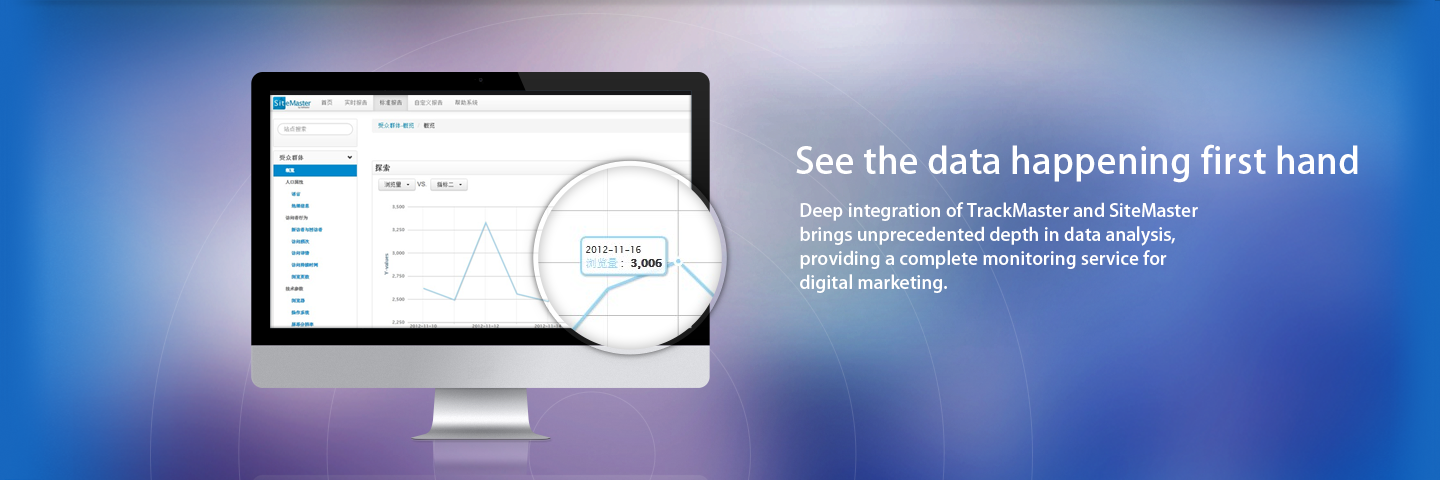
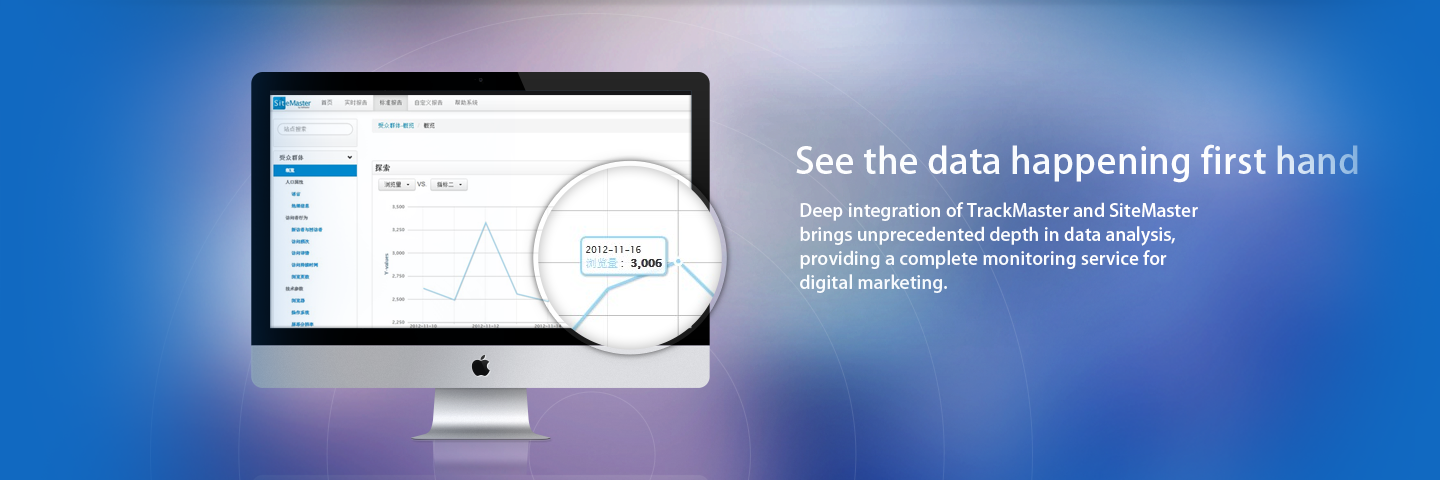
changed

diff --git a/zh-cn/features.html b/zh-cn/features.html
@@ -44,7 +44,7 @@
 			  <li><a href="partners.html">合作伙伴</a></li>
 			  <li><a href="learn.html">帮助中心</a></li>
               <li><a href="contact.html">联系我们</a></li>
-			  <li><a href="http://open.admaster.com.cn/user/login">登入</a></li>
+			  <li><a href=" http://www.sitemaster.com.cn/site.htm">登入</a></li>
             </ul>
 		  </div>
         </div>
@@ -71,7 +71,7 @@
 			<h2 class="sub">分析工具</h2>
 			<p>针对客户站点的内容特点，开发出多个业界独特的分析功能模块，提供全新的视角分析和独到的洞察方案。</p>
 			<li>实时与回溯报告</li>
-			<li>点击&注意力热图</li>
+			<li>点击，注意力热图</li>
 			<li>广告流分析</li>
 		  </div>
 		  <div class="span4">
@@ -80,9 +80,9 @@
 			</a>
 			<h2 class="sub">内容分析</h2>
 			<p>可快速定位站点的最热点内容，查看访客的网站行为，利用进入退出页分析，加载速度等数据提供优化方案。</p>
-			<li>站点&页面分析</li>
-			<li>事件跟踪&目标</li>
-			<li>着陆率&跳出率</li>
+			<li>站点，页面分析</li>
+			<li>事件跟踪，目标</li>
+			<li>着陆率，跳出率</li>
 		  </div>
 		  <div class="span4">
 			<a class="thumbnail" style="background:#ffffff">
@@ -92,7 +92,7 @@
 			<p>通过获取分析访问者使用的移动设备，技术参数等信息，为客户提供最好的跨设备及跨技术平台的投放方案。</p>
 			<li>设备：品牌，类型，分辨率</li>
 			<li>参数：屏幕信息，flash版本</li>
-			<li>细分：操作系统&浏览器</li> 
+			<li>细分：操作系统, 浏览器</li> 
 			<br>
 		</div>
 		</div>
@@ -124,9 +124,9 @@
 			</a>
 			<h2 class="sub">访问者分析</h2>
 			<p>细分到每一个访问者，每一次访问的详情，所有能想到的访问数据都可以在这里找到答案。</p>
-			<li>语言&地理位置</li>
-			<li>新访者&回访者</li>
-			<li>浏览页数&持续时间</li>
+			<li>语言，地理位置</li>
+			<li>新访者，回访者</li>
+			<li>浏览页数，持续时间</li>
 		  </div>
 		</div>
 	    <div class="row">
@@ -179,7 +179,9 @@
 	          </fieldset>
             </div>
       <div class="modal-footer">
-	    <a href="login.html" class="btn btn-warning pull-left">已有账号</a>
+	    <!--
+		<a href="login.html" class="btn btn-warning pull-left">已有账号</a>
+		-->
 		<a href="index.html" class="btn btn-primary">注册</a>
       </div>
     </div>

diff --git a/en/features.html b/en/features.html
@@ -44,7 +44,7 @@
 			  <li><a href="partners.html">Partners</a></li>
 			  <li><a href="learn.html">Learn</a></li>
               <li><a href="contact.html">Contact</a></li>
-			  <li><a href="http://open.admaster.com.cn/user/login">Login</a></li>
+			  <li><a href="http://www.sitemaster.com.cn/site.htm">Login</a></li>
             </ul>
 		  </div>
         </div>
@@ -71,7 +71,7 @@
 			<h2 class="sub">Analysis Tools</h2>
 			<p>Easily browse through your data with easy to use interface. Export data onto excel to share or further analysis. Discover important data for better conversion.</p>
 			<li>Real time reporting</li>
-			<li>Heat map Visualization</li>
+			<li>Heat map visualization</li>
 			<li>Multi channel funnel</li>
 		  </div>
 		  <div class="span4">
@@ -111,7 +111,7 @@
 			  <img alt="image" src="img/advertising.png">
 			</a>
 			<h2 class="sub">Advertising Analytics</h2>
-			<p>Integrate with TrackMaster to understand which advertising campaigns are working. Use real time reporting to look across all digital channels and optimize for conversions.</p>
+			<p>Integrate with TrackMaster to understand which advertising campaigns are working. Use real time reporting to look across all digital channels.</p>
 		  <li>Cross channel reference</li>
 		  <li>Multi channel funnel</li>
 		  <li>Advance tracking via cookies</li>

diff --git a/zh-cn/learn.html b/zh-cn/learn.html
@@ -44,7 +44,7 @@
 			  <li><a href="partners.html">合作伙伴</a></li>
               <li class="active"><a href="learn.html">帮助中心</a></li>
               <li><a href="contact.html">联系我们</a></li>
-			  <li><a href="http://open.admaster.com.cn/user/login">登入</a></li>
+			  <li><a href=" http://www.sitemaster.com.cn/site.htm">登入</a></li>
             </ul>
 		  </div>
         </div>
@@ -69,7 +69,7 @@
 		      <i class="icon-check"></i>
 		    </div>
 			<h2><a href="http://help.admaster.com.cn/sitemaster/">入门教程</a></h2>
-			<p>基本术语介绍和初级教程，帮助用户快速掌握产品使用。 </p>	
+			<p>系统基本术语介绍和初级入门教程，帮助用户快速掌握产品使用。</p>	
 		  </div>
 		  <div class="span4 bouncy">
 		    <div class="icon_wrapper">
@@ -83,7 +83,7 @@
 		      <i class="icon-comments"></i>
 		    </div>
 			<h2><a href="http://help.admaster.com.cn/sitemaster/">帮助中心</a></h2>
-			<p>深入学习我们的分析工具，使用上的所有问题都可在这儿得到答案。</p>	
+			<p>深入研究我们的分析工具，所有使用上的问题都可在此得到答案。</p>	
 		  </div>		  
 		</div>
 <br>

diff --git a/zh-cn/contact.html b/zh-cn/contact.html
@@ -42,9 +42,9 @@
               <li><a href="index.html">产品首页</a></li>
 			  <li><a href="features.html">功能特点</a></li>
 			  <li><a href="partners.html">合作伙伴</a></li>
-			  <li><a href="learN.html">帮助中心</a></li>
+			  <li><a href="learn.html">帮助中心</a></li>
               <li class="active"><a href="contact.html">联系我们</a></li>
-			  <li><a href="http://open.admaster.com.cn/user/login">登入</a></li>
+			  <li><a href=" http://www.sitemaster.com.cn/site.htm">登入</a></li>
             </ul>
 		  </div>
         </div>
@@ -116,13 +116,13 @@
 		        静安区 昌平路68号 
 				<br>静安现代产业大厦 701室
 				<br>
-				 <h4><i class="icon-phone"></i>联系方式</h4> 
+				 <h4><i class="icon-phone"></i> 联系方式</h4> 
 		        <address>
 				( 10:00-19:00 ) 
 				 <br> 
-		        电话: 021- 32160977 
+		        电话: 021-3216 0977 
 				<br>
-				传真: 021- 62319743
+				传真: 021-6231 9743
 				</address>
 				</div>
 				<div class="span1">

diff --git a/zh-cn/index.html b/zh-cn/index.html
@@ -44,7 +44,7 @@
               <li><a href="partners.html">合作伙伴</a></li>
 			  <li><a href="learn.html">帮助中心</a></li>
 			  <li><a href="contact.html">联系我们</a></li>
-			  <li><a href="http://open.admaster.com.cn/user/login">登入</a></li>
+			  <li><a href=" http://www.sitemaster.com.cn/site.htm">登入</a></li>
             </ul>
 		  </div>
         </div>
@@ -63,8 +63,8 @@
             </div>
 	</div>
 -->
-<div id="container" style="background:#1169c1" align="center">	
-	<div id="myCarousel" class="carousel slide">
+<div id="container" style="background-image:url('img/color.gif');background-repeat:repeat-x;" align="center">	
+	<div id="myCarousel" class="carousel slide" >
 	<!-- Carousel items -->
 	<div class="carousel-inner">
 		<div class="active item"><img src="img/home1.png"></div>

diff --git a/en/index.html b/en/index.html
@@ -44,7 +44,7 @@
               <li><a href="partners.html">Partners</a></li>
 			  <li><a href="learn.html">Learn</a></li>
 			  <li><a href="contact.html">Contact</a></li>
-			  <li><a href="http://open.admaster.com.cn/user/login">Login</a></li>
+			  <li><a href="http://www.sitemaster.com.cn/site.htm">Login</a></li>
             </ul>
 		  </div>
         </div>
@@ -68,7 +68,7 @@
 	</div>
 -->	
 	
-<div id="container" style="background:#1169c1" align="center">	
+<div id="container" style="background-image:url('img/color.gif');background-repeat:repeat-x;" align="center">	
 	<div id="myCarousel" class="carousel slide">
 	<!-- Carousel items -->
 	<div class="carousel-inner">

diff --git a/zh-cn/login.html b/zh-cn/login.html
@@ -44,7 +44,7 @@
 			  <li><a href="partners.html">功能特点</a></li>
               <li><a href="learn.html">帮助中心</a></li>
               <li><a href="contact.html">联系我们</a></li>
-			  <li class="active"><a href="http://open.admaster.com.cn/user/login">登入</a></li>
+			  <li class="active"><a href=" http://www.sitemaster.com.cn/site.htm">登入</a></li>
             </ul>
 		  </div>
         </div>

diff --git a/en/login.html b/en/login.html
@@ -44,7 +44,7 @@
 			  <li><a href="partners.html">Partners</a></li>
               <li><a href="learn.html">Learn</a></li>
               <li><a href="contact.html">Contact</a></li>
-			  <li class="active"><li><a href="http://open.admaster.com.cn/user/login">Login</a></li>
+			  <li class="active"><li><a href="http://www.sitemaster.com.cn/site.htm">Login</a></li>
             </ul>
 		  </div>
         </div>

diff --git a/zh-cn/partners.html b/zh-cn/partners.html
@@ -44,7 +44,7 @@
               <li class="active"><a href="partners.html">合作伙伴</a></li>
 			  <li><a href="learn.html">帮助中心</a></li>
               <li><a href="contact.html">联系我们</a></li>
-			  <li><a href="http://open.admaster.com.cn/user/login">登入</a></li>
+			  <li><a href=" http://www.sitemaster.com.cn/site.htm">登入</a></li>
             </ul>
 		  </div>
         </div>

diff --git a/en/learn.html b/en/learn.html
@@ -44,7 +44,7 @@
 			  <li><a href="partners.html">Partners</a></li>
               <li class="active"><a href="learn.html">Learn</a></li>
               <li><a href="contact.html">Contact</a></li>
-			  <li><a href="http://open.admaster.com.cn/user/login">Login</a></li>
+			  <li><a href="http://www.sitemaster.com.cn/site.htm">Login</a></li>
             </ul>
 		  </div>
         </div>

diff --git a/en/partners.html b/en/partners.html
@@ -44,7 +44,7 @@
               <li class="active"><a href="partners.html">Partners</a></li>
 			  <li><a href="learn.html">Learn</a></li>
               <li><a href="contact.html">Contact</a></li>
-			  <li><a href="http://open.admaster.com.cn/user/login">Login</a></li>
+			  <li><a href="http://www.sitemaster.com.cn/site.htm">Login</a></li>
             </ul>
 		  </div>
         </div>

diff --git a/en/contact.html b/en/contact.html
@@ -44,7 +44,7 @@
 			  <li><a href="partners.html">Partners</a></li>
 			  <li><a href="learN.html">Learn</a></li>
               <li class="active"><a href="contact.html">Contact</a></li>
-			  <li><a href="http://open.admaster.com.cn/user/login">Login</a></li>
+			  <li><a href="http://www.sitemaster.com.cn/site.htm">Login</a></li>
             </ul>
 		  </div>
         </div>
